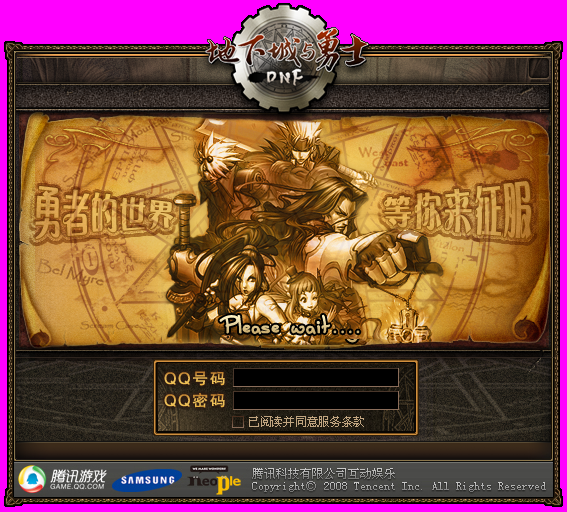
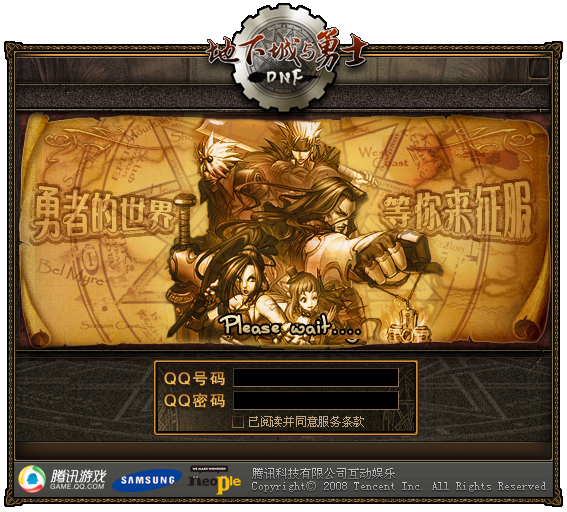
背景图品红抠成透明（原版色键）；附可复现的 key-magenta 工具脚本

Changed region(s): [[0.0, 0.0, 1.0, 1.0]]

diff --git a/src/DFLegacy.Launcher/MainWindow.xaml b/src/DFLegacy.Launcher/MainWindow.xaml
@@ -13,6 +13,8 @@
     按原版 2008 登录器 1:1 还原：窗口 567x512 + backgd_di1.png 背景。
     所有元素坐标取自客户端 config\layout\QQLogin.xml（Left/Top/Width/Height 一一对应）；
     按钮文字已烙在原始图片里，因此全部用图片按钮（三态在 SkinImage.cs 中切换）。
+    背景图的品红透明区已用 tools/key-magenta.ps1 抠成 alpha=0，配合 AllowsTransparency
+    由系统按 alpha 合成，透明处的点击也会穿透到桌面（沿用原版 RegionSet 的效果）。
   -->
   <Window.Resources>
     <!-- 原版输入框：无边框、透明底、白字白光标（QQLogin.xml: HasBorder=false, TextColor=0xffffff） -->
